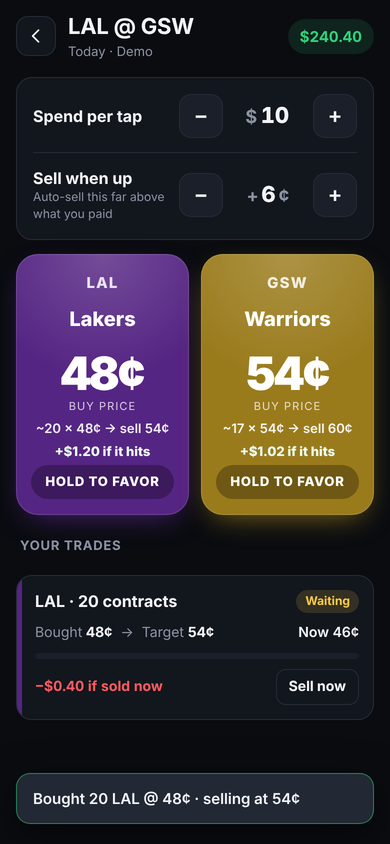
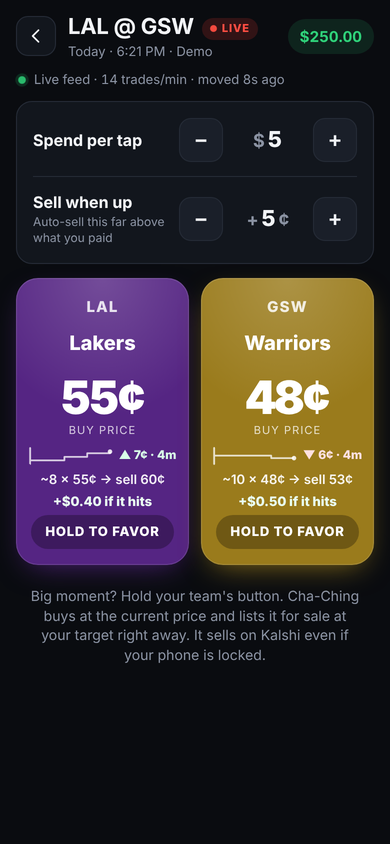
Document live games, streaming prices and update cadence
README gains a "Live games and live prices" section: how live games
are detected and listed first, what the WebSocket streams, the
before/after update cadence (streaming vs fallback), and how each
platform opens the socket. Project layout lists the new modules, and
the screenshots show the live list and the streaming game screen.

Claude-Session: https://claude.ai/code/session_011V4Dr7xaBu3DiVvrpLy1GA

diff --git a/README.md b/README.md
@@ -4,8 +4,8 @@ Courtside trading for NBA, NFL and MLB games on [Kalshi](https://kalshi.com). Yo
 
 <p>
   <img src="docs/auth.png" width="240" alt="Sign-in screen">
-  <img src="docs/markets.png" width="240" alt="Games list with NBA, NFL and MLB tabs">
-  <img src="docs/game.png" width="240" alt="Game screen with two favor buttons and an open trade">
+  <img src="docs/markets.png" width="240" alt="Games list with sport tabs and a live game listed first">
+  <img src="docs/game.png" width="240" alt="Live game screen with streaming feed, sparklines and two favor buttons">
 </p>
 
 ## How it works
@@ -21,6 +21,31 @@ Courtside trading for NBA, NFL and MLB games on [Kalshi](https://kalshi.com). Yo
 5. **That sell order rests on Kalshi itself.** It fills the moment the price gets there, even if your phone is locked or the app is closed. When the app is open you get a "Cha-ching!" alert and a haptic tap from any screen.
 
 Each trade card shows entry, target, the live bid, a progress bar, and P&L. **Sell now** (tap twice to confirm) cancels the target and sells at the current bid. If a sell order ever fails or gets canceled, the trade is marked **Needs attention** and offers a one-tap retry.
+
+## Live games and live prices
+
+- **Live games come first.** Each game's start time comes from Kalshi's milestones, or from the ticker for MLB. Games in progress go in a **Live now** section at the top, with a pulsing **LIVE** badge. A game counts as live from its start until Kalshi's end time, or for 3 h (NBA), 4 h (NFL) or 4.5 h (MLB) when Kalshi doesn't give one. Upcoming games show their start time, or "in 25m" within the hour.
+- **Prices stream over Kalshi's WebSocket.** The app subscribes to `ticker` (best bid/ask and last price) and `trade` for the markets on screen, and to `fill` for your own orders. Kalshi pushes every change, so there is no polling interval to wait out.
+- **You can see that it's moving.** The game screen shows a feed line ("Live feed · 14 trades/min · moved 8s ago"), and each team button has a 10-minute sparkline with its 5-minute change ("▲ 7¢ · 4m"). Live cards in the list show each team's move ("▲13").
+
+How fresh the numbers are:
+
+| What | Streaming | If the live feed can't connect |
+|---|---|---|
+| Game screen prices | pushed on every change | REST every 1 s |
+| Games list prices | pushed on every change | REST every 10 s |
+| Your sell order filling | pushed `fill` → "Sold" within a moment | REST every 3 s |
+| Background check (pauses, new games) | REST every 10 s (game) / 20 s (list) | (same as above) |
+
+Updates that arrive in bursts are drawn at most once per screen frame. The feed reconnects automatically, with backoff and a second Kalshi host, and right away when you reopen the app.
+
+Kalshi requires signed headers on the WebSocket handshake, which browser and WebView sockets can't send, so each build connects its own way:
+
+- **iPhone:** a small native plugin (`ios/App/App/KalshiSocketPlugin.swift`).
+- **Desktop:** the Electron main process.
+- **`npm run dev`:** the Vite dev server proxy.
+
+In each case the request is signed on your device and goes straight to Kalshi.
 
 ## Runs completely locally
 
@@ -69,7 +94,7 @@ In Xcode:
 
 With a free Apple ID the app needs re-installing from Xcode every 7 days. A paid Apple Developer account ($99/yr) removes that limit and lets you distribute through TestFlight.
 
-After changing the web code, run `npm run ios:sync` and press Run again.
+After changing the web code, run `npm run ios:sync` and press Run again. Changes to native code (like `KalshiSocketPlugin.swift`) need a fresh build in Xcode, which Run does.
 
 ## Desktop (Electron)
 
@@ -125,13 +150,16 @@ src/
     sha256.js
     client.js     Kalshi Trade API v2 calls (V2 orders, fixed-point prices)
     transport.js  CapacitorHttp on iPhone, IPC on Electron, Vite proxy in the browser
+    stream.js     WebSocket client: ticker/trade/fill subscriptions, reconnect, parsing
+    socket.js     WebSocket transports: native plugin, Electron main process, dev proxy
     money.js      dollar-string ↔ cents, tick rounding
-  sports.js       NBA/NFL/MLB registry: Kalshi game events → two-team games, team colors
+  sports.js       NBA/NFL/MLB registry: Kalshi game events → two-team games, start times, live state
+  live.js         rolling price/trade tape behind the sparklines, moves and trade pace
   trader.js       favor → buy → rest target → track → sell now
   store.js        settings, saved key, trade history (all local)
   ui/             auth, markets, game screens
 electron/         desktop shell (main + preload)
-ios/              Xcode project (Capacitor, Swift Package Manager)
+ios/              Xcode project (Capacitor, Swift Package Manager) + KalshiSocketPlugin.swift
 test/             node:test suites
 ```
 
